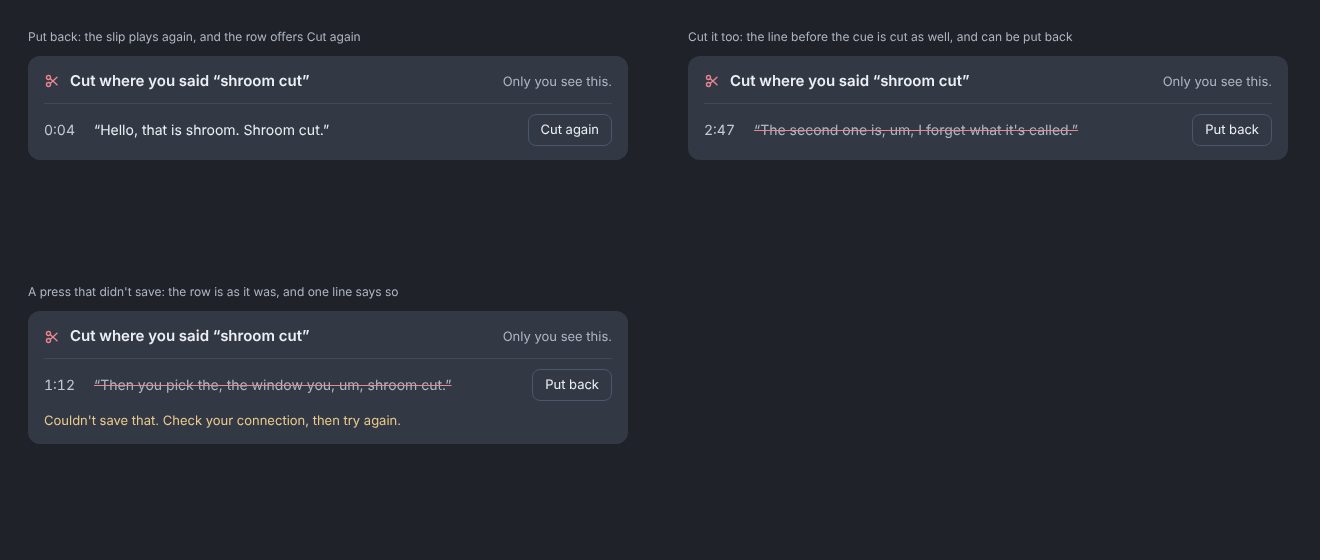
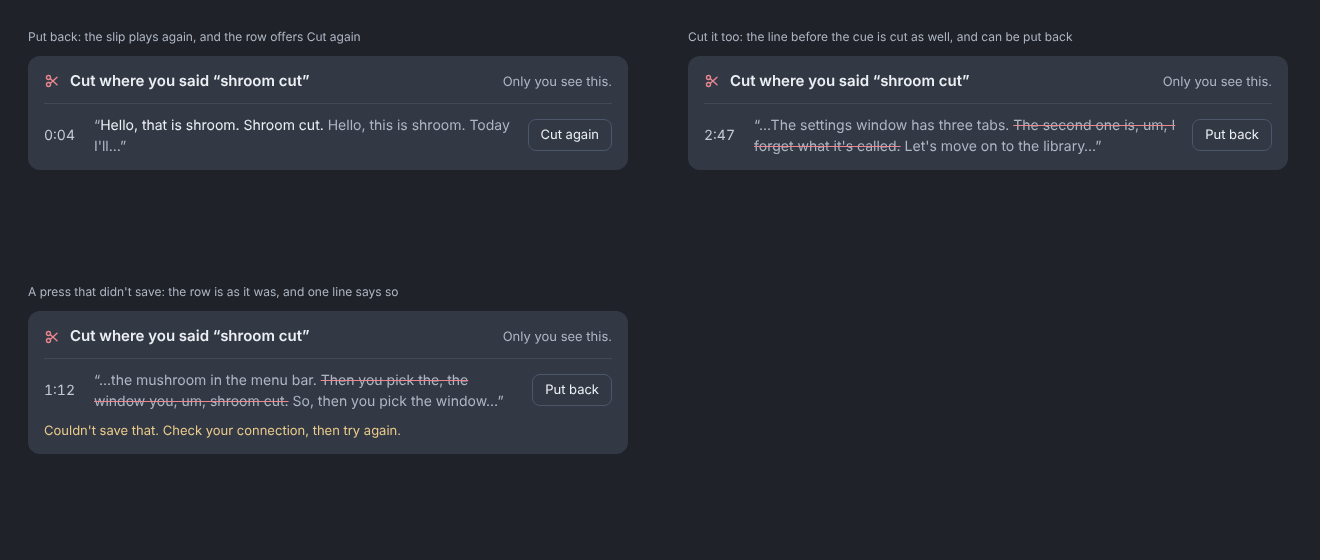
dev/proposals/voice-cut: the cut rows with the words around each cut
The boards OwnerPageCuts and OwnerPageCutRows, as published to the
canvas: each voice cut's words sit between a few of what plays around
it, quiet and never struck, with "…" where more was said. Bagrat's go
on the cut rows included this, drawn first.

Changed region(s): [[0.0, 0.2125, 0.9939, 0.3036], [0.0, 0.6679, 0.497, 0.8196], [0.4038, 0.6679, 0.4659, 0.7286]]

diff --git a/dev/proposals/voice-cut/OwnerPageCutRows.dc.html b/dev/proposals/voice-cut/OwnerPageCutRows.dc.html
@@ -14,7 +14,7 @@ a{color:#88c0d0}a:hover{color:#8fbcbb}
 </style>
 </helmet>
 <div style="width: 1320px; height: 560px; box-sizing: border-box; background: #1f2228; display: flex; flex-direction: column; font-family: -apple-system, BlinkMacSystemFont, system-ui, sans-serif; font-size: 13px; line-height: 1.45; color: #eceff4">
-<div style="width: 1320px; min-height: 560px; box-sizing: border-box; background: #1f2228; padding: 28px; display: grid; grid-template-columns: 600px 600px; gap: 36px 60px; font-family: -apple-system, BlinkMacSystemFont, system-ui, sans-serif; font-size: 14px; line-height: 1.5; color: #eceff4"><div style="display: flex; flex-direction: column; gap: 10px; width: 600px"><span style="color: #aeb6c4; font-size: 12px">Put back: the slip plays again, and the row offers Cut again</span><section aria-label="Cuts where you said shroom cut" style="background: #333944; border-radius: 12px; padding: 14px 16px; display: flex; flex-direction: column; gap: 10px"><div style="display: flex; flex-direction: row; align-items: center; gap: 10px"><svg viewBox="0 0 16 16" aria-hidden="true" style="width: 16px; height: 16px; fill: none; stroke: #e88790; stroke-width: 1.4; stroke-linecap: round; display: block; flex: none"><circle cx="4.5" cy="4.5" r="2"></circle><circle cx="4.5" cy="11.5" r="2"></circle><path d="M6.2 5.6L13 11.8M6.2 10.4L13 4.2"></path></svg><span style="font-weight: 600; font-size: 15px" data-said="owner-page-cuts.cut-where-you-said">Cut where you said “shroom cut”</span><span style="flex: 1 1 0"></span><span style="color: #aeb6c4; font-size: 13px" data-said="owner-page-cuts.only-you-see-this">Only you see this.</span></div><div style="display: flex; flex-direction: row; align-items: center; gap: 14px; padding: 10px 0 0 0; border-top: 1px solid #434a56"><span style="font-variant-numeric: tabular-nums; color: #c3cad6; flex: none; width: 36px">0:04</span><span style="flex: 1 1 0; min-width: 0; display: flex; flex-direction: column; gap: 2px"><span style="color: #eceff4">“Hello, that is shroom. Shroom cut.”</span></span><button style="font: inherit; font-size: 13px; height: 32px; padding: 0 12px; border: 1px solid #4c566a; border-radius: 8px; background: transparent; color: #eceff4; flex: none" data-said="owner-page-cuts.cut-again">Cut again</button></div></section></div><div style="display: flex; flex-direction: column; gap: 10px; width: 600px"><span style="color: #aeb6c4; font-size: 12px">Cut it too: the line before the cue is cut as well, and can be put back</span><section aria-label="Cuts where you said shroom cut" style="background: #333944; border-radius: 12px; padding: 14px 16px; display: flex; flex-direction: column; gap: 10px"><div style="display: flex; flex-direction: row; align-items: center; gap: 10px"><svg viewBox="0 0 16 16" aria-hidden="true" style="width: 16px; height: 16px; fill: none; stroke: #e88790; stroke-width: 1.4; stroke-linecap: round; display: block; flex: none"><circle cx="4.5" cy="4.5" r="2"></circle><circle cx="4.5" cy="11.5" r="2"></circle><path d="M6.2 5.6L13 11.8M6.2 10.4L13 4.2"></path></svg><span style="font-weight: 600; font-size: 15px" data-said="owner-page-cuts.cut-where-you-said">Cut where you said “shroom cut”</span><span style="flex: 1 1 0"></span><span style="color: #aeb6c4; font-size: 13px" data-said="owner-page-cuts.only-you-see-this">Only you see this.</span></div><div style="display: flex; flex-direction: row; align-items: center; gap: 14px; padding: 10px 0 0 0; border-top: 1px solid #434a56"><span style="font-variant-numeric: tabular-nums; color: #c3cad6; flex: none; width: 36px">2:47</span><span style="flex: 1 1 0; min-width: 0; display: flex; flex-direction: column; gap: 2px"><span style="color: #aeb6c4; text-decoration: line-through; text-decoration-color: #e88790">“The second one is, um, I forget what it's called.”</span></span><button style="font: inherit; font-size: 13px; height: 32px; padding: 0 12px; border: 1px solid #4c566a; border-radius: 8px; background: transparent; color: #eceff4; flex: none" data-said="owner-page-cuts.put-back">Put back</button></div></section></div><div style="display: flex; flex-direction: column; gap: 10px; width: 600px"><span style="color: #aeb6c4; font-size: 12px">A press that didn't save: the row is as it was, and one line says so</span><section aria-label="Cuts where you said shroom cut" style="background: #333944; border-radius: 12px; padding: 14px 16px; display: flex; flex-direction: column; gap: 10px"><div style="display: flex; flex-direction: row; align-items: center; gap: 10px"><svg viewBox="0 0 16 16" aria-hidden="true" style="width: 16px; height: 16px; fill: none; stroke: #e88790; stroke-width: 1.4; stroke-linecap: round; display: block; flex: none"><circle cx="4.5" cy="4.5" r="2"></circle><circle cx="4.5" cy="11.5" r="2"></circle><path d="M6.2 5.6L13 11.8M6.2 10.4L13 4.2"></path></svg><span style="font-weight: 600; font-size: 15px" data-said="owner-page-cuts.cut-where-you-said">Cut where you said “shroom cut”</span><span style="flex: 1 1 0"></span><span style="color: #aeb6c4; font-size: 13px" data-said="owner-page-cuts.only-you-see-this">Only you see this.</span></div><div style="display: flex; flex-direction: row; align-items: center; gap: 14px; padding: 10px 0 0 0; border-top: 1px solid #434a56"><span style="font-variant-numeric: tabular-nums; color: #c3cad6; flex: none; width: 36px">1:12</span><span style="flex: 1 1 0; min-width: 0; display: flex; flex-direction: column; gap: 2px"><span style="color: #aeb6c4; text-decoration: line-through; text-decoration-color: #e88790">“Then you pick the, the window you, um, shroom cut.”</span></span><button style="font: inherit; font-size: 13px; height: 32px; padding: 0 12px; border: 1px solid #4c566a; border-radius: 8px; background: transparent; color: #eceff4; flex: none" data-said="owner-page-cuts.put-back">Put back</button></div><span style="color: #ebcb8b; font-size: 13px" role="status" data-said="owner-page-cuts.couldnt-save">Couldn't save that. Check your connection, then try again.</span></section></div></div>
+<div style="width: 1320px; min-height: 560px; box-sizing: border-box; background: #1f2228; padding: 28px; display: grid; grid-template-columns: 600px 600px; gap: 36px 60px; font-family: -apple-system, BlinkMacSystemFont, system-ui, sans-serif; font-size: 14px; line-height: 1.5; color: #eceff4"><div style="display: flex; flex-direction: column; gap: 10px; width: 600px"><span style="color: #aeb6c4; font-size: 12px">Put back: the slip plays again, and the row offers Cut again</span><section aria-label="Cuts where you said shroom cut" style="background: #333944; border-radius: 12px; padding: 14px 16px; display: flex; flex-direction: column; gap: 10px"><div style="display: flex; flex-direction: row; align-items: center; gap: 10px"><svg viewBox="0 0 16 16" aria-hidden="true" style="width: 16px; height: 16px; fill: none; stroke: #e88790; stroke-width: 1.4; stroke-linecap: round; display: block; flex: none"><circle cx="4.5" cy="4.5" r="2"></circle><circle cx="4.5" cy="11.5" r="2"></circle><path d="M6.2 5.6L13 11.8M6.2 10.4L13 4.2"></path></svg><span style="font-weight: 600; font-size: 15px" data-said="owner-page-cuts.cut-where-you-said">Cut where you said “shroom cut”</span><span style="flex: 1 1 0"></span><span style="color: #aeb6c4; font-size: 13px" data-said="owner-page-cuts.only-you-see-this">Only you see this.</span></div><div style="display: flex; flex-direction: row; align-items: center; gap: 14px; padding: 10px 0 0 0; border-top: 1px solid #434a56"><span style="font-variant-numeric: tabular-nums; color: #c3cad6; flex: none; width: 36px">0:04</span><span style="flex: 1 1 0; min-width: 0; display: flex; flex-direction: column; gap: 2px"><span style="color: #aeb6c4">“<span style="color: #eceff4">Hello, that is shroom. Shroom cut.</span> Hello, this is shroom. Today I'll…”</span></span><button style="font: inherit; font-size: 13px; height: 32px; padding: 0 12px; border: 1px solid #4c566a; border-radius: 8px; background: transparent; color: #eceff4; flex: none" data-said="owner-page-cuts.cut-again">Cut again</button></div></section></div><div style="display: flex; flex-direction: column; gap: 10px; width: 600px"><span style="color: #aeb6c4; font-size: 12px">Cut it too: the line before the cue is cut as well, and can be put back</span><section aria-label="Cuts where you said shroom cut" style="background: #333944; border-radius: 12px; padding: 14px 16px; display: flex; flex-direction: column; gap: 10px"><div style="display: flex; flex-direction: row; align-items: center; gap: 10px"><svg viewBox="0 0 16 16" aria-hidden="true" style="width: 16px; height: 16px; fill: none; stroke: #e88790; stroke-width: 1.4; stroke-linecap: round; display: block; flex: none"><circle cx="4.5" cy="4.5" r="2"></circle><circle cx="4.5" cy="11.5" r="2"></circle><path d="M6.2 5.6L13 11.8M6.2 10.4L13 4.2"></path></svg><span style="font-weight: 600; font-size: 15px" data-said="owner-page-cuts.cut-where-you-said">Cut where you said “shroom cut”</span><span style="flex: 1 1 0"></span><span style="color: #aeb6c4; font-size: 13px" data-said="owner-page-cuts.only-you-see-this">Only you see this.</span></div><div style="display: flex; flex-direction: row; align-items: center; gap: 14px; padding: 10px 0 0 0; border-top: 1px solid #434a56"><span style="font-variant-numeric: tabular-nums; color: #c3cad6; flex: none; width: 36px">2:47</span><span style="flex: 1 1 0; min-width: 0; display: flex; flex-direction: column; gap: 2px"><span style="color: #aeb6c4">“…The settings window has three tabs. <span style="text-decoration: line-through; text-decoration-color: #e88790">The second one is, um, I forget what it's called.</span> Let's move on to the library…”</span></span><button style="font: inherit; font-size: 13px; height: 32px; padding: 0 12px; border: 1px solid #4c566a; border-radius: 8px; background: transparent; color: #eceff4; flex: none" data-said="owner-page-cuts.put-back">Put back</button></div></section></div><div style="display: flex; flex-direction: column; gap: 10px; width: 600px"><span style="color: #aeb6c4; font-size: 12px">A press that didn't save: the row is as it was, and one line says so</span><section aria-label="Cuts where you said shroom cut" style="background: #333944; border-radius: 12px; padding: 14px 16px; display: flex; flex-direction: column; gap: 10px"><div style="display: flex; flex-direction: row; align-items: center; gap: 10px"><svg viewBox="0 0 16 16" aria-hidden="true" style="width: 16px; height: 16px; fill: none; stroke: #e88790; stroke-width: 1.4; stroke-linecap: round; display: block; flex: none"><circle cx="4.5" cy="4.5" r="2"></circle><circle cx="4.5" cy="11.5" r="2"></circle><path d="M6.2 5.6L13 11.8M6.2 10.4L13 4.2"></path></svg><span style="font-weight: 600; font-size: 15px" data-said="owner-page-cuts.cut-where-you-said">Cut where you said “shroom cut”</span><span style="flex: 1 1 0"></span><span style="color: #aeb6c4; font-size: 13px" data-said="owner-page-cuts.only-you-see-this">Only you see this.</span></div><div style="display: flex; flex-direction: row; align-items: center; gap: 14px; padding: 10px 0 0 0; border-top: 1px solid #434a56"><span style="font-variant-numeric: tabular-nums; color: #c3cad6; flex: none; width: 36px">1:12</span><span style="flex: 1 1 0; min-width: 0; display: flex; flex-direction: column; gap: 2px"><span style="color: #aeb6c4">“…the mushroom in the menu bar. <span style="text-decoration: line-through; text-decoration-color: #e88790">Then you pick the, the window you, um, shroom cut.</span> So, then you pick the window…”</span></span><button style="font: inherit; font-size: 13px; height: 32px; padding: 0 12px; border: 1px solid #4c566a; border-radius: 8px; background: transparent; color: #eceff4; flex: none" data-said="owner-page-cuts.put-back">Put back</button></div><span style="color: #ebcb8b; font-size: 13px" role="status" data-said="owner-page-cuts.couldnt-save">Couldn't save that. Check your connection, then try again.</span></section></div></div>
 </div>
 </x-dc>
 <script type="text/x-dc" data-dc-script data-props='{"$preview":{"width":1320,"height":560}}'>

diff --git a/dev/proposals/voice-cut/OwnerPageCuts.dc.html b/dev/proposals/voice-cut/OwnerPageCuts.dc.html
@@ -32,7 +32,7 @@ a{color:#88c0d0}a:hover{color:#8fbcbb}
 <button aria-label="Playback speed, 1×" style="font: inherit; height: 44px; min-width: 44px; padding: 0 10px; border: 0; border-radius: 8px; background: transparent; color: #d8dee9; font-weight: 600; flex: none">1×</button>
 </div>
 </div>
-</div><section aria-label="Cuts where you said shroom cut" style="background: #333944; border-radius: 12px; padding: 14px 16px; display: flex; flex-direction: column; gap: 10px"><div style="display: flex; flex-direction: row; align-items: center; gap: 10px"><svg viewBox="0 0 16 16" aria-hidden="true" style="width: 16px; height: 16px; fill: none; stroke: #e88790; stroke-width: 1.4; stroke-linecap: round; display: block; flex: none"><circle cx="4.5" cy="4.5" r="2"></circle><circle cx="4.5" cy="11.5" r="2"></circle><path d="M6.2 5.6L13 11.8M6.2 10.4L13 4.2"></path></svg><span style="font-weight: 600; font-size: 15px" data-said="owner-page-cuts.cut-where-you-said">Cut where you said “shroom cut”</span><span style="flex: 1 1 0"></span><span style="color: #aeb6c4; font-size: 13px" data-said="owner-page-cuts.only-you-see-this">Only you see this.</span></div><div style="display: flex; flex-direction: row; align-items: center; gap: 14px; padding: 10px 0 0 0; border-top: 1px solid #434a56"><span style="font-variant-numeric: tabular-nums; color: #c3cad6; flex: none; width: 36px">0:04</span><span style="flex: 1 1 0; min-width: 0; display: flex; flex-direction: column; gap: 2px"><span style="color: #aeb6c4; text-decoration: line-through; text-decoration-color: #e88790">“Hello, that is shroom. Shroom cut.”</span></span><button style="font: inherit; font-size: 13px; height: 32px; padding: 0 12px; border: 1px solid #4c566a; border-radius: 8px; background: transparent; color: #eceff4; flex: none" data-said="owner-page-cuts.put-back">Put back</button></div><div style="display: flex; flex-direction: row; align-items: center; gap: 14px; padding: 10px 0 0 0; border-top: 1px solid #434a56"><span style="font-variant-numeric: tabular-nums; color: #c3cad6; flex: none; width: 36px">1:12</span><span style="flex: 1 1 0; min-width: 0; display: flex; flex-direction: column; gap: 2px"><span style="color: #aeb6c4; text-decoration: line-through; text-decoration-color: #e88790">“Then you pick the, the window you, um, shroom cut.”</span></span><button style="font: inherit; font-size: 13px; height: 32px; padding: 0 12px; border: 1px solid #4c566a; border-radius: 8px; background: transparent; color: #eceff4; flex: none" data-said="owner-page-cuts.put-back">Put back</button></div><div style="display: flex; flex-direction: row; align-items: center; gap: 14px; padding: 10px 0 0 0; border-top: 1px solid #434a56"><span style="font-variant-numeric: tabular-nums; color: #c3cad6; flex: none; width: 36px">2:47</span><span style="flex: 1 1 0; min-width: 0; display: flex; flex-direction: column; gap: 2px"><span style="color: #ebcb8b; font-size: 13px" data-said="owner-page-cuts.only-the-words-went">Nothing was said again after it, so only “shroom cut” went. Cut the line before it too?</span><span style="color: #eceff4">“The second one is, um, I forget what it's called.”</span></span><button style="font: inherit; font-size: 13px; height: 32px; padding: 0 12px; border: 1px solid #4c566a; border-radius: 8px; background: transparent; color: #eceff4; flex: none" data-said="owner-page-cuts.cut-it-too">Cut it too</button></div></section></div><div style="width: 100%; max-width: 960px; padding: 32px 0 0 0; display: flex; flex-direction: row; justify-content: flex-end; align-items: center; gap: 10px"><button role="switch" aria-checked="true" aria-labelledby="mark-label" style="width: 36px; height: 20px; border: 0; border-radius: 10px; background: #88c0d0; padding: 2px; display: flex; flex-direction: row; justify-content: flex-end; align-items: center; flex: none"><span style="width: 16px; height: 16px; border-radius: 8px; background: #2b2f36; display: block"></span></button><span id="mark-label" style="color: #aeb6c4; font-size: 13px" data-said="owner-page.made-with-shroom">made with shroom</span><svg viewBox="18 20 84 90" aria-hidden="true" style="width: 17px; height: 18px; display: block"><path d="M50,68 C49,82 46,92 46,96 C46,101 52,104 60,104 C68,104 74,101 74,96 C74,92 71,82 70,68 Z" fill="#E5E9F0"></path><path d="M24,64 C24,42 40,26 60,26 C80,26 96,42 96,64 C86,75 34,75 24,64 Z" fill="#88C0D0"></path><circle cx="33" cy="58" r="3.4" fill="#ECEFF4"></circle><circle cx="88" cy="58" r="2.2" fill="#ECEFF4"></circle><circle cx="50" cy="44" r="6" fill="#ECEFF4"></circle><circle cx="72" cy="48" r="3.6" fill="#ECEFF4"></circle><circle cx="64" cy="58" r="2.6" fill="#ECEFF4"></circle></svg></div></div>
+</div><section aria-label="Cuts where you said shroom cut" style="background: #333944; border-radius: 12px; padding: 14px 16px; display: flex; flex-direction: column; gap: 10px"><div style="display: flex; flex-direction: row; align-items: center; gap: 10px"><svg viewBox="0 0 16 16" aria-hidden="true" style="width: 16px; height: 16px; fill: none; stroke: #e88790; stroke-width: 1.4; stroke-linecap: round; display: block; flex: none"><circle cx="4.5" cy="4.5" r="2"></circle><circle cx="4.5" cy="11.5" r="2"></circle><path d="M6.2 5.6L13 11.8M6.2 10.4L13 4.2"></path></svg><span style="font-weight: 600; font-size: 15px" data-said="owner-page-cuts.cut-where-you-said">Cut where you said “shroom cut”</span><span style="flex: 1 1 0"></span><span style="color: #aeb6c4; font-size: 13px" data-said="owner-page-cuts.only-you-see-this">Only you see this.</span></div><div style="display: flex; flex-direction: row; align-items: center; gap: 14px; padding: 10px 0 0 0; border-top: 1px solid #434a56"><span style="font-variant-numeric: tabular-nums; color: #c3cad6; flex: none; width: 36px">0:04</span><span style="flex: 1 1 0; min-width: 0; display: flex; flex-direction: column; gap: 2px"><span style="color: #aeb6c4">“<span style="text-decoration: line-through; text-decoration-color: #e88790">Hello, that is shroom. Shroom cut.</span> Hello, this is shroom. Today I'll…”</span></span><button style="font: inherit; font-size: 13px; height: 32px; padding: 0 12px; border: 1px solid #4c566a; border-radius: 8px; background: transparent; color: #eceff4; flex: none" data-said="owner-page-cuts.put-back">Put back</button></div><div style="display: flex; flex-direction: row; align-items: center; gap: 14px; padding: 10px 0 0 0; border-top: 1px solid #434a56"><span style="font-variant-numeric: tabular-nums; color: #c3cad6; flex: none; width: 36px">1:12</span><span style="flex: 1 1 0; min-width: 0; display: flex; flex-direction: column; gap: 2px"><span style="color: #aeb6c4">“…the mushroom in the menu bar. <span style="text-decoration: line-through; text-decoration-color: #e88790">Then you pick the, the window you, um, shroom cut.</span> So, then you pick the window…”</span></span><button style="font: inherit; font-size: 13px; height: 32px; padding: 0 12px; border: 1px solid #4c566a; border-radius: 8px; background: transparent; color: #eceff4; flex: none" data-said="owner-page-cuts.put-back">Put back</button></div><div style="display: flex; flex-direction: row; align-items: center; gap: 14px; padding: 10px 0 0 0; border-top: 1px solid #434a56"><span style="font-variant-numeric: tabular-nums; color: #c3cad6; flex: none; width: 36px">2:47</span><span style="flex: 1 1 0; min-width: 0; display: flex; flex-direction: column; gap: 2px"><span style="color: #ebcb8b; font-size: 13px" data-said="owner-page-cuts.only-the-words-went">Nothing was said again after it, so only “shroom cut” went. Cut the line before it too?</span><span style="color: #aeb6c4">“…The settings window has three tabs. <span style="color: #eceff4">The second one is, um, I forget what it's called.</span> Let's move on to the library…”</span></span><button style="font: inherit; font-size: 13px; height: 32px; padding: 0 12px; border: 1px solid #4c566a; border-radius: 8px; background: transparent; color: #eceff4; flex: none" data-said="owner-page-cuts.cut-it-too">Cut it too</button></div></section></div><div style="width: 100%; max-width: 960px; padding: 32px 0 0 0; display: flex; flex-direction: row; justify-content: flex-end; align-items: center; gap: 10px"><button role="switch" aria-checked="true" aria-labelledby="mark-label" style="width: 36px; height: 20px; border: 0; border-radius: 10px; background: #88c0d0; padding: 2px; display: flex; flex-direction: row; justify-content: flex-end; align-items: center; flex: none"><span style="width: 16px; height: 16px; border-radius: 8px; background: #2b2f36; display: block"></span></button><span id="mark-label" style="color: #aeb6c4; font-size: 13px" data-said="owner-page.made-with-shroom">made with shroom</span><svg viewBox="18 20 84 90" aria-hidden="true" style="width: 17px; height: 18px; display: block"><path d="M50,68 C49,82 46,92 46,96 C46,101 52,104 60,104 C68,104 74,101 74,96 C74,92 71,82 70,68 Z" fill="#E5E9F0"></path><path d="M24,64 C24,42 40,26 60,26 C80,26 96,42 96,64 C86,75 34,75 24,64 Z" fill="#88C0D0"></path><circle cx="33" cy="58" r="3.4" fill="#ECEFF4"></circle><circle cx="88" cy="58" r="2.2" fill="#ECEFF4"></circle><circle cx="50" cy="44" r="6" fill="#ECEFF4"></circle><circle cx="72" cy="48" r="3.6" fill="#ECEFF4"></circle><circle cx="64" cy="58" r="2.6" fill="#ECEFF4"></circle></svg></div></div>
 </x-dc>
 <script type="text/x-dc" data-dc-script data-props='{"$preview":{"width":1280,"height":1100}}'>
 class Component extends DCLogic {
